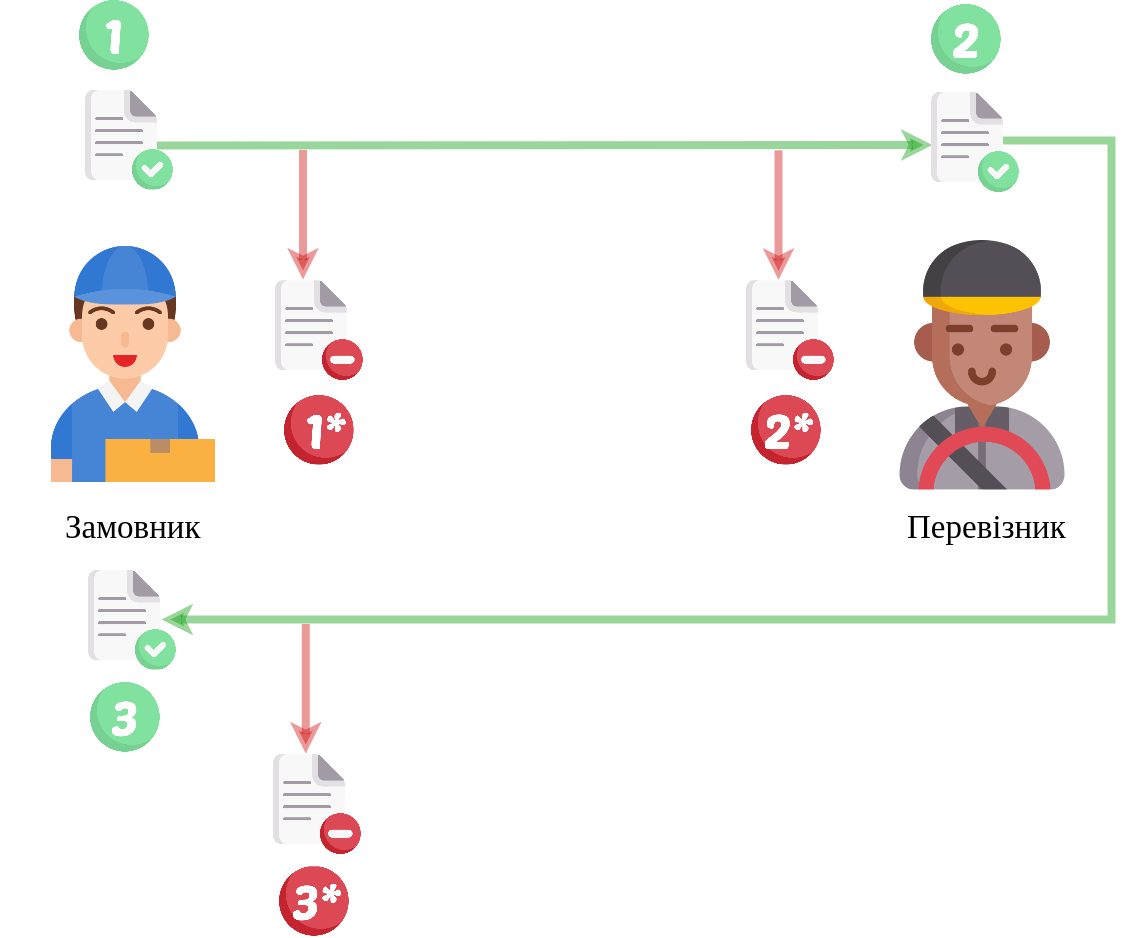
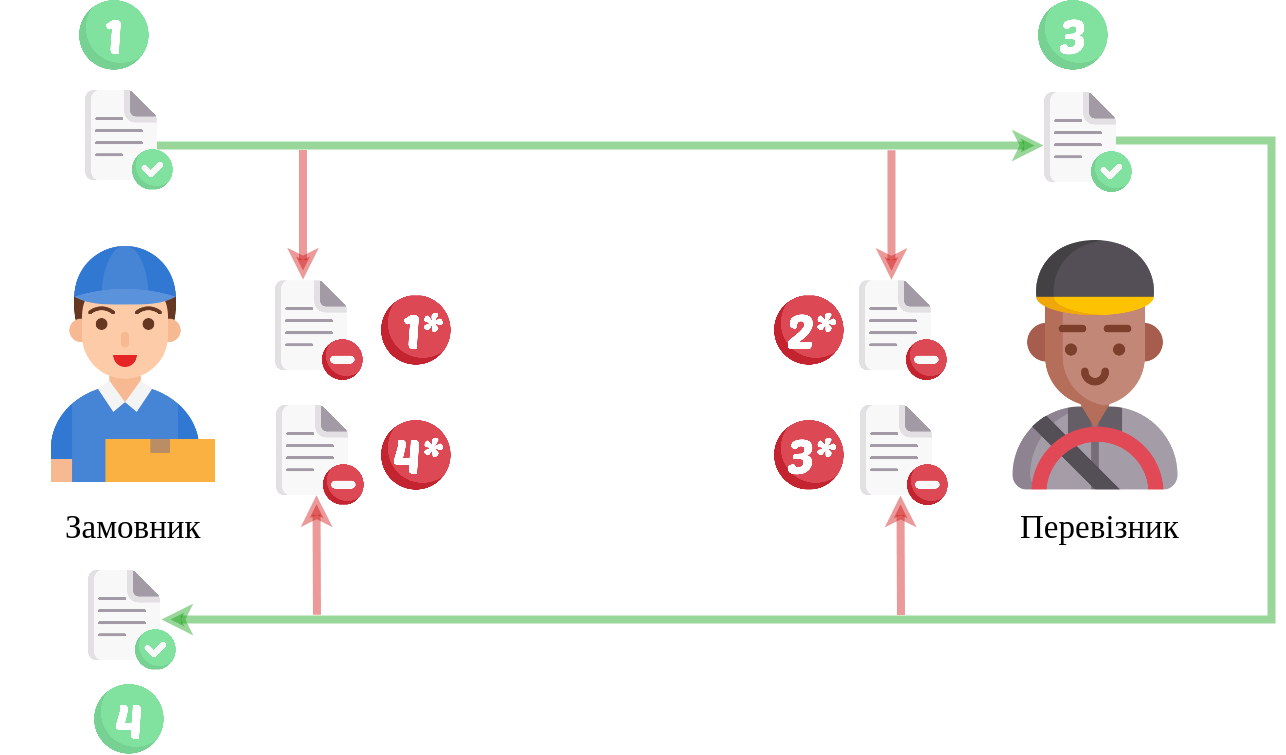
api_proposal_work

Changed region(s): [[0.0308, 0.0, 1.0, 1.0]]

diff --git a/docs/Distribution/EDIN_2_0/API_2_0/Distribution_API_2_0_list.rst b/docs/Distribution/EDIN_2_0/API_2_0/Distribution_API_2_0_list.rst
@@ -54,20 +54,20 @@ API
 | DELETE    | ``/api/distribex/pricelist`` | `Видалити (очистити) "Прайс-лист" для вказаного Дистриб'ютора <https://wiki.edin.ua/uk/latest/Distribution/EDIN_2_0/API_2_0/Methods/PriceListDelete.html>`__                           |
 +-----------+------------------------------+----------------------------------------------------------------------------------------------------------------------------------------------------------------------------------------+
 
-Робота з попередніми замовленнями
-======================================
+.. бесполезно для клиентов. актуально только для web Робота з попередніми замовленнями
+    ======================================
 
-+-----------+-----------------------------+-------------------------------------------------------------------------------------------------------------------------------------------------------------------+
-| **Метод** |       **URL запиту**        |                                                                             **Опис**                                                                              |
-+===========+=============================+===================================================================================================================================================================+
-| PUT       | ``/api/distribex/preorder`` | `Зберегти (відредагувати) Попереднє замовлення по "Прайс-листу" <https://wiki.edin.ua/uk/latest/Distribution/EDIN_2_0/API_2_0/Methods/PutPreorder.html>`__        |
-+-----------+-----------------------------+-------------------------------------------------------------------------------------------------------------------------------------------------------------------+
-| GET       | ``/api/distribex/preorder`` | `Отримати дані для формування Попереднього замовлення по "Прайс-листу" <https://wiki.edin.ua/uk/latest/Distribution/EDIN_2_0/API_2_0/Methods/GetPreorder.html>`__ |
-+-----------+-----------------------------+-------------------------------------------------------------------------------------------------------------------------------------------------------------------+
-| POST      | ``/api/distribex/preorder`` | `Зберегти Попереднє замовлення по "Прайс-листу" <https://wiki.edin.ua/uk/latest/Distribution/EDIN_2_0/API_2_0/Methods/PostPreorder.html>`__                       |
-+-----------+-----------------------------+-------------------------------------------------------------------------------------------------------------------------------------------------------------------+
-| DELETE    | ``/api/distribex/preorder`` | `Видалити Попереднє замовлення <https://wiki.edin.ua/uk/latest/Distribution/EDIN_2_0/API_2_0/Methods/DelPreorder.html>`__                                         |
-+-----------+-----------------------------+-------------------------------------------------------------------------------------------------------------------------------------------------------------------+
+    +-----------+-----------------------------+-------------------------------------------------------------------------------------------------------------------------------------------------------------------+
+    | **Метод** |       **URL запиту**        |                                                                             **Опис**                                                                              |
+    +===========+=============================+===================================================================================================================================================================+
+    | PUT       | ``/api/distribex/preorder`` | `Зберегти (відредагувати) Попереднє замовлення по "Прайс-листу" <https://wiki.edin.ua/uk/latest/Distribution/EDIN_2_0/API_2_0/Methods/PutPreorder.html>`__        |
+    +-----------+-----------------------------+-------------------------------------------------------------------------------------------------------------------------------------------------------------------+
+    | GET       | ``/api/distribex/preorder`` | `Отримати дані для формування Попереднього замовлення по "Прайс-листу" <https://wiki.edin.ua/uk/latest/Distribution/EDIN_2_0/API_2_0/Methods/GetPreorder.html>`__ |
+    +-----------+-----------------------------+-------------------------------------------------------------------------------------------------------------------------------------------------------------------+
+    | POST      | ``/api/distribex/preorder`` | `Зберегти Попереднє замовлення по "Прайс-листу" <https://wiki.edin.ua/uk/latest/Distribution/EDIN_2_0/API_2_0/Methods/PostPreorder.html>`__                       |
+    +-----------+-----------------------------+-------------------------------------------------------------------------------------------------------------------------------------------------------------------+
+    | DELETE    | ``/api/distribex/preorder`` | `Видалити Попереднє замовлення <https://wiki.edin.ua/uk/latest/Distribution/EDIN_2_0/API_2_0/Methods/DelPreorder.html>`__                                         |
+    +-----------+-----------------------------+-------------------------------------------------------------------------------------------------------------------------------------------------------------------+
 
 Робота з документами
 ======================================

diff --git a/docs/API_ETTN/Work_with_API/Proposal_API_work.rst b/docs/API_ETTN/Work_with_API/Proposal_API_work.rst
@@ -24,46 +24,25 @@ Cхема документообігу "Заявка на транспортув
 
 1.2 `Створення/редагування чернетки «Заявка на транспортування» <https://wiki.edin.ua/uk/latest/API_ETTN/Methods/CreateBooking.html>`__
 
+1.3 `Підписання «Заявки на транспортування» Замовником <https://wiki.edin.ua/uk/latest/API_ETTN/Methods/SaveEttnV2Sign.html>`__
 
-
-
-
-
-
-
-
-
-1.3 `Створення XML документа для подальшого підписання Замовником <https://wiki.edin.ua/uk/latest/API_ETTN/Methods/CreateEttnV2XML.html>`__
-
-1.4 `Підписання е-ТТН Замовником <https://wiki.edin.ua/uk/latest/API_ETTN/Methods/SaveEttnV2Sign.html>`__
-
-1.5 `Відправка е-ТТН Замовником <https://wiki.edin.ua/uk/latest/API_ETTN/Methods/DocSend.html>`__
+1.4 `Відправка «Заявки на транспортування» Замовником <https://wiki.edin.ua/uk/latest/API_ETTN/Methods/DocSend.html>`__
 
 .. image:: pics/ETTN_API_work_10.png
    :height: 31px
    :width: 31px
 
-1.6 `Відхилення е-ТТН Замовником <https://wiki.edin.ua/uk/latest/API_ETTN/Methods/DocReject.html>`__
+1.5 `Відхилення «Заявки на транспортування» Замовником <https://wiki.edin.ua/uk/latest/API_ETTN/Methods/DocReject.html>`__
 
 -----------------------------------------------
-
-.. image:: pics/ETTN_API_work_11.png
-   :height: 31px
-   :width: 31px
-
-2.1 `Авторизація Перевізника <https://wiki.edin.ua/uk/latest/API_ETTN/Methods/Authorization.html>`__
-
-2.2 **Опціонально:** `Підтвердження е-ТТН Водієм <https://wiki.edin.ua/uk/latest/API_ETTN/Methods/DocConfirm.html>`__
-
-2.3 `Створення XML документа для подальшого підписання Перевізником <https://wiki.edin.ua/uk/latest/API_ETTN/Methods/CreateEttnV2XML.html>`__
-
-2.4 `Підписання е-ТТН Перевізником <https://wiki.edin.ua/uk/latest/API_ETTN/Methods/SaveEttnV2Sign.html>`__
 
 .. image:: pics/ETTN_API_work_12.png
    :height: 31px
    :width: 31px
 
-2.2* `Відхилення е-ТТН Перевізником <https://wiki.edin.ua/uk/latest/API_ETTN/Methods/DocReject.html>`__
+2.1* `Авторизація Перевізника <https://wiki.edin.ua/uk/latest/API_ETTN/Methods/Authorization.html>`__
+
+2.2* `Відхилення «Заявки на транспортування» Перевізником <https://wiki.edin.ua/uk/latest/API_ETTN/Methods/DocReject.html>`__
 
 -----------------------------------------------
 
@@ -71,29 +50,35 @@ Cхема документообігу "Заявка на транспортув
    :height: 31px
    :width: 31px
 
-3.1 `Авторизація Вантажоотримувача <https://wiki.edin.ua/uk/latest/API_ETTN/Methods/Authorization.html>`__
+3.1 `Авторизація Перевізника <https://wiki.edin.ua/uk/latest/API_ETTN/Methods/Authorization.html>`__
 
-3.2 **Опціонально:** `Підтвердження е-ТТН Приймальником <https://wiki.edin.ua/uk/latest/API_ETTN/Methods/DocConfirm.html>`__
+3.2 `Створення/редагування чернетки «Підтвердження транспортування» <https://wiki.edin.ua/uk/latest/API_ETTN/Methods/CreateBookingConfirmation.html>`__
 
-3.3 `Створення XML документа для подальшого підписання Вантажоотримувачем <https://wiki.edin.ua/uk/latest/API_ETTN/Methods/CreateEttnV2XML.html>`__
+3.3 `Підписання «Підтвердження транспортування» Перевізником <https://wiki.edin.ua/uk/latest/API_ETTN/Methods/SaveEttnV2Sign.html>`__
 
-3.4 `Підписання е-ТТН Вантажоотримувачем <https://wiki.edin.ua/uk/latest/API_ETTN/Methods/SaveEttnV2Sign.html>`__
+3.4 `Відправка «Підтвердження транспортування» Перевізником <https://wiki.edin.ua/uk/latest/API_ETTN/Methods/DocSend.html>`__
 
 .. image:: pics/ETTN_API_work_14.png
    :height: 31px
    :width: 31px
 
-3.2* `Відхилення е-ТТН Вантажоотримувачем <https://wiki.edin.ua/uk/latest/API_ETTN/Methods/DocReject.html>`__
+3.5 `Відхилення «Підтвердження транспортування» Перевізником <https://wiki.edin.ua/uk/latest/API_ETTN/Methods/DocReject.html>`__
 
 -----------------------------------------------
 
-.. image:: pics/ETTN_API_work_15.png
+.. image:: pics/ETTN_API_work_17.png
    :height: 31px
    :width: 31px
 
-4.1 `Авторизація Перевізника <https://wiki.edin.ua/uk/latest/API_ETTN/Methods/Authorization.html>`__
+4.1 `Авторизація Вантажоотримувача <https://wiki.edin.ua/uk/latest/API_ETTN/Methods/Authorization.html>`__
 
-4.2 `Підписання е-ТТН Перевізником <https://wiki.edin.ua/uk/latest/API_ETTN/Methods/SaveEttnV2Sign.html>`__
+4.2 `Підписання «Підтвердження транспортування» Замовником <https://wiki.edin.ua/uk/latest/API_ETTN/Methods/SaveEttnV2Sign.html>`__
+
+.. image:: pics/ETTN_API_work_18.png
+   :height: 31px
+   :width: 31px
+
+4.2* `Відхилення «Підтвердження транспортування» Замовником <https://wiki.edin.ua/uk/latest/API_ETTN/Methods/DocReject.html>`__
 
 -----------------------------------------------
 
